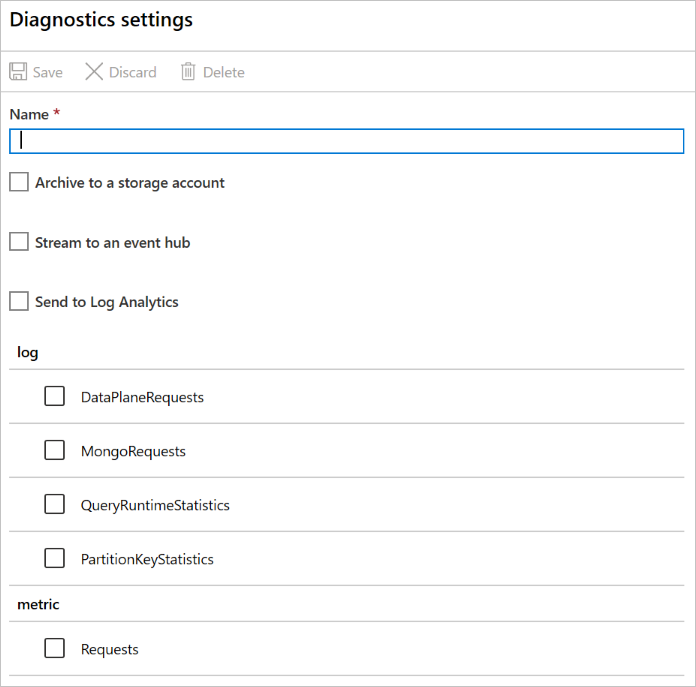
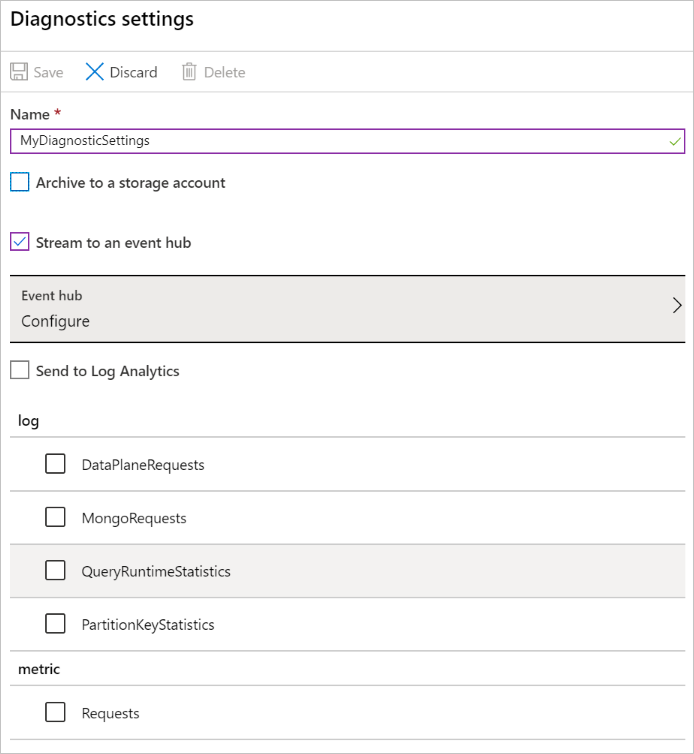
added screenshot of diagnostics settings

diff --git a/java/java-get-started-with-logzio.md b/java/java-get-started-with-logzio.md
@@ -179,13 +179,15 @@ Now that you’ve deployed the integration template, you’ll need to configure 
 
 3. Give your diagnostic settings a **Name**.
 
-4. Select **Stream to an Event Hub**, then select **Configure** to open the **Select Event Hub** panel.
+4. Select **Stream to an event hub**, then select **Configure** to open the **Select Event Hub** panel.
+
+    ![Diagnostics settings panel](media/java-get-started-with-logzio/diagnostics-settings.png)
 
 5. Choose your Event Hub:
 
-    * **Event Hub namespace**: Choose the namespace that starts with **Logzio** (`LogzioNS6nvkqdcci10p`, for example).
-    * **Event Hub name**: For logs choose **insights-operational-logs** and for metrics choose **insights-operational-metrics**.
-    * **Event Hub policy name**: Choose **LogzioSharedAccessKey**.
+    * **Select event hub namespace**: Choose the namespace that starts with **Logzio** (`LogzioNS6nvkqdcci10p`, for example).
+    * **Select event hub name**: For logs choose **insights-operational-logs** and for metrics choose **insights-operational-metrics**.
+    * **Select event hub policy name**: Choose **LogzioSharedAccessKey**.
 
 6. Select **OK** to return to the **Diagnostics settings** panel.
 
